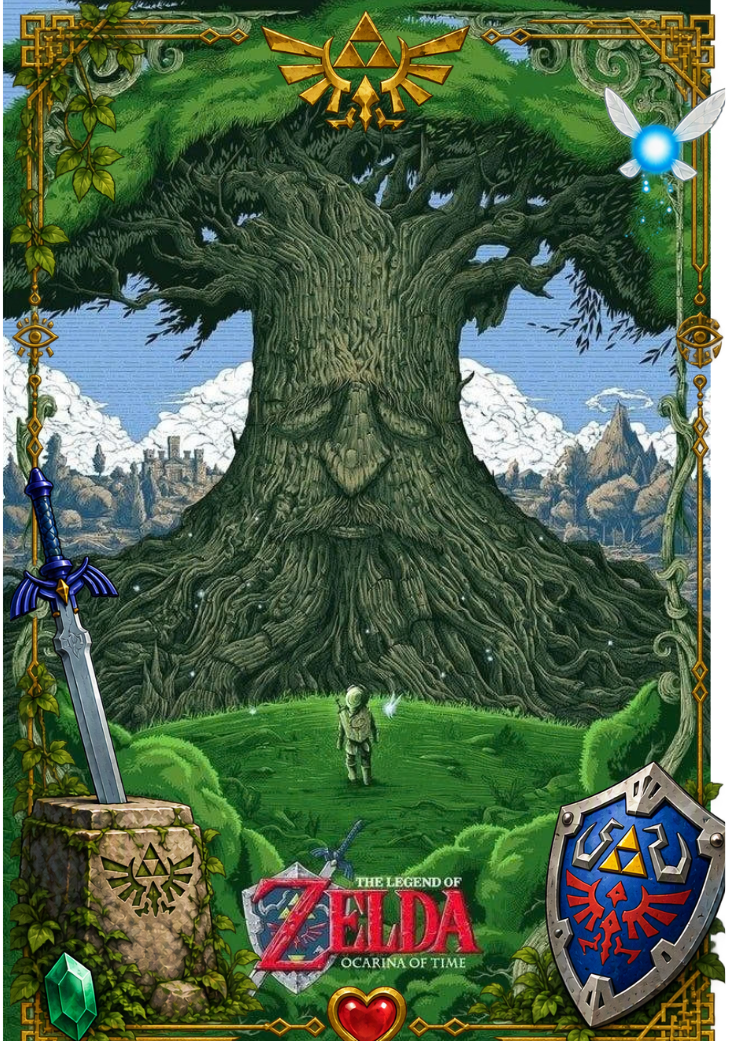
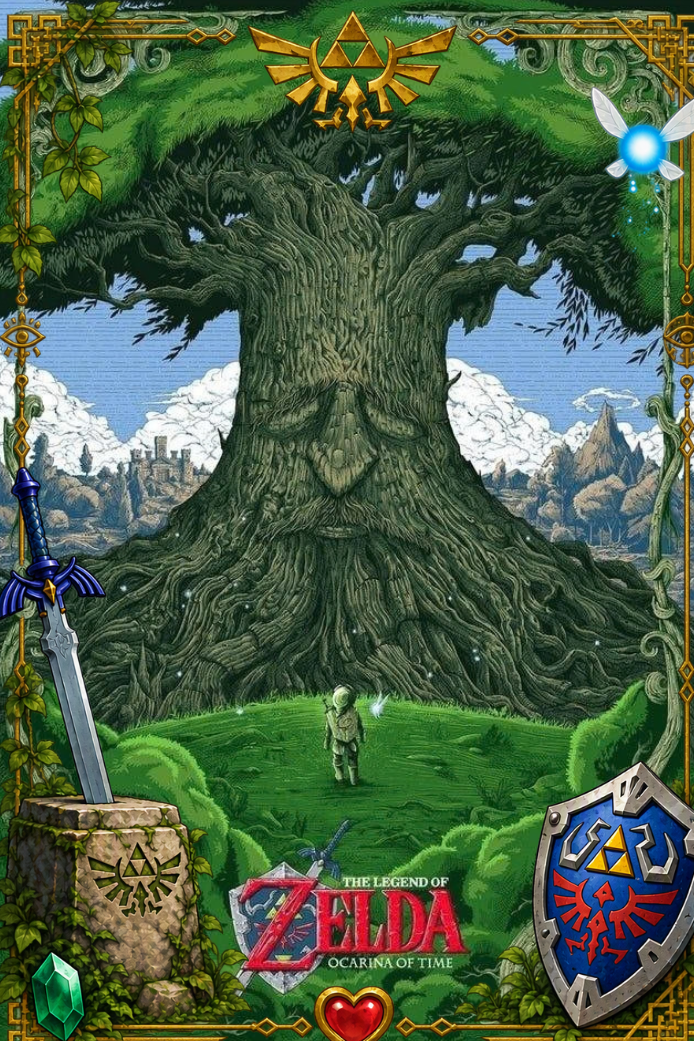
feat: Arrumei buga e adicionei imagens

diff --git a/js/game.js b/js/game.js
@@ -15,14 +15,14 @@ const TIMING_DURATION = 2200;
 const TIMING_SPEED = 620;
 
 const characters = [
-  { id: "master-sword", image: "1.png", label: "Master Sword" },
+  { id: "master-sword", image: "6.png", label: "Master Sword" },
   { id: "link", image: "2.png", label: "Link" },
-  { id: "deku-tree", image: "3.png", label: "Deku Tree" },
-  { id: "hylian-shield", image: "4.png", label: "Escudo Hyliano" },
+  { id: "deku-tree", image: "1.png", label: "Deku Tree" },
+  { id: "hylian-shield", image: "4.png", label: "Princesa" },
   { id: "kingdom", image: "5.png", label: "Reino de Hyrule" },
   {
     id: "legend",
-    image: "6.png",
+    image: "3.png",
     label: "Lenda de Zelda",
     size: "contain",
     color: "#102c25",

diff --git a/index.html b/index.html
@@ -15,7 +15,7 @@
   <body>
     <form class="login-form">
       <div class="login-header">
-        <img src="./images/Zelda_Logo.png" alt="The Legend of Zelda" />
+        <img src="./images/zeldalogo22.png" alt="The Legend of Zelda" />
         <p>Teste sua memória em uma aventura por Hyrule</p>
       </div>
 

diff --git a/css/login.css b/css/login.css
@@ -3,7 +3,7 @@
   flex-direction: column;
   align-items: center;
   min-height: 100vh;
-  background-image: url("../images/Background_login.jpg");
+  background-image: url("../images/zelda2.jpg");
   background-position: center;
   background-size: cover;
   justify-content: center;
